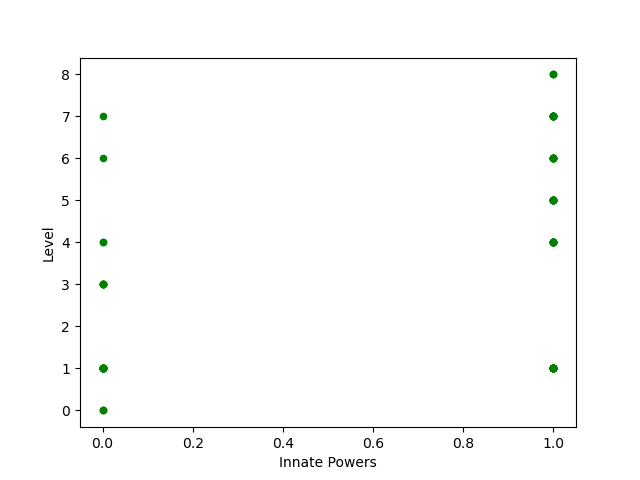
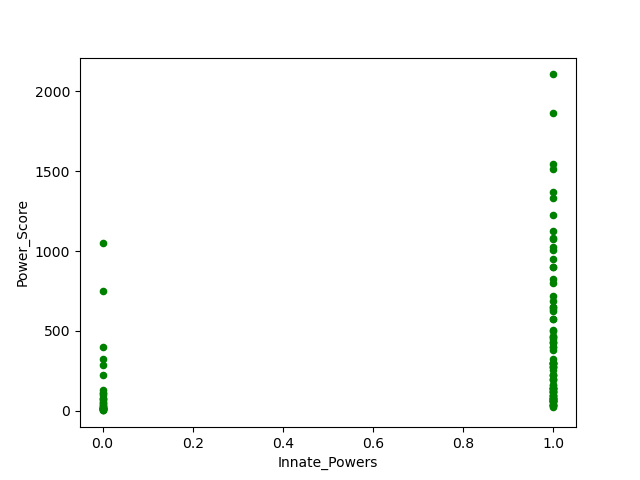
adjusted power score and plotting.

diff --git a/character_analysis.py b/character_analysis.py
@@ -1,3 +1,4 @@
+import csv
 import matplotlib.pyplot as plt
 import numpy as np
 import pandas as pd
@@ -54,7 +55,7 @@ def power_scores(comic_df):
         item_score = (j.Use_of_Enhanced_Tech * 2) + (j.Magical_or_Powerful_Weapons_Items * 3)
         advanced_score = j.Telekinesis_Telepathy + j.Ability_to_Alter_Matter_or_Energy**2 + \
                          j.Ability_to_Alter_Space_Time_Reality**3
-        j.Power_Score = (j.Level + 1) * (base_score + combat_score + item_score + advanced_score)
+        j.Power_Score = (j.Level + 1)**2 * (base_score + combat_score + item_score + advanced_score)
         powerscore_list.append(j.Power_Score)
     comic_df.Power_Score = powerscore_list
 
@@ -63,35 +64,31 @@ def power_scores(comic_df):
 
 # ***compare features and determine relationships***
 def make_plots(comic_df):
-    comic_df.plot(kind='scatter', x='Gender', y='Level', color='purple')
+    comic_df.plot(kind='scatter', x='Gender', y='Power_Score', color='purple')
     plt.savefig('plots\\gender_to_Power.png')
 
-    comic_df.plot(kind='scatter', x='Gender', y='Ability to Alter Space/Time/Reality', color='purple')
-    plt.savefig('plots\\gender_to_SRT.png')
-
-    comic_df.plot(kind='scatter', x='Property', y='Level', color='purple')
-    plt.savefig('plots\\property_to_Power.png')
-
-    comic_df.plot(kind='scatter', x='Side', y='Level', color='purple')
+    comic_df.plot(kind='scatter', x='Side', y='Power_Score', color='purple')
     plt.savefig('plots\\side_to_Power.png')
 
-    comic_df.plot(kind='scatter', x='Status', y='Level', color='blue')
+    comic_df.plot(kind='scatter', x='Status', y='Power_Score', color='blue')
     plt.savefig('plots\\Status_to_Power.png')
 
-    comic_df.plot(kind='scatter', x='Ability to Alter Space/Time/Reality', y='Level', color='blue')
+    comic_df.plot(kind='scatter', x='Level', y='Power_Score', color='blue')
     plt.savefig('plots\\STR_to_Power.png')
 
-    comic_df.plot(kind='scatter', x='Magic/Mystic Powers', y='Level', color='green')
+    comic_df.plot(kind='scatter', x='Magic_Or_Mystic_Powers', y='Power_Score', color='green')
     plt.savefig('plots\\Magic_to_Power.png')
 
-    comic_df.plot(kind='scatter', x='Innate Powers', y='Level', color='green')
+    comic_df.plot(kind='scatter', x='Innate_Powers', y='Power_Score', color='green')
     plt.savefig('plots\\Innate_to_Power.png')
 
 
 # ***create the clustering model***
-def make_clusters(comic_df):
+def create_clusters(comic_df):
+    comic_df.to_csv('Datasets\\Updated_Comic_Dataset.csv')
+
     # find the ideal K
-    X = comic_df
+    X = comic_df[5:]
     distortions = []
 
     for i in range(1, 11):
@@ -103,17 +100,25 @@ def make_clusters(comic_df):
     plt.xlabel('Number of clusters')
     plt.ylabel('Distortion')
     plt.savefig('plots\\ideal_k.png')
+    plt.show()
+    # the result of this plot shows that three is perhaps the ideal number of clusters for this set
 
-    # the result of this plot shows that four is perhaps the ideal number of clusters for this set
-    final_k = KMeans(n_clusters=4, init='random', n_init=10, max_iter=300, tol=1e-04, random_state=0)
-    y_km = final_k.fit_predict(X)
-    X = X.to_numpy()
+    return X
+
+
+def create_final_model(X_train):
+    final_k = KMeans(n_clusters=3, init='random', n_init=10, max_iter=300, tol=1e-04, random_state=0)
+    pred_y = final_k.fit_predict(X_train)
+    X_train = X_train.to_numpy()
 
     # plot the clusters
-    plt.scatter(X[y_km == 0, 0], X[y_km == 0, 1], s=50, c='green', marker='o', edgecolor='black', label='cluster 1')
-    plt.scatter(X[y_km == 1, 0], X[y_km == 1, 1], s=50, c='blue', marker='o', edgecolor='black', label='cluster 2')
-    plt.scatter(X[y_km == 2, 0], X[y_km == 2, 1], s=50, c='purple', marker='o', edgecolor='black', label='cluster 3')
-    plt.scatter(X[y_km == 3, 0], X[y_km == 3, 1], s=50, c='red', marker='o', edgecolor='black', label='cluster 4')
+    '''plt.scatter(X_train[:, 0], X_train[:, 1])
+    plt.scatter(final_k.cluster_centers_[:, 0], final_k.cluster_centers_[:, 1], s=150, c='red')
+    plt.show()'''
+
+    plt.scatter(X_train[pred_y == 0, 0], X_train[pred_y == 0, 1], s=50, c='green', marker='o', edgecolor='black', label='cluster 1')
+    plt.scatter(X_train[pred_y == 1, 0], X_train[pred_y == 1, 1], s=50, c='blue', marker='o', edgecolor='black', label='cluster 2')
+    plt.scatter(X_train[pred_y == 2, 0], X_train[pred_y == 2, 1], s=50, c='purple', marker='o', edgecolor='black', label='cluster 3')
 
     # plot the centroids
     plt.scatter(final_k.cluster_centers_[:, 0], final_k.cluster_centers_[:, 1], s=250, marker='*', c='black',
@@ -126,8 +131,9 @@ def make_clusters(comic_df):
 
 cleaned_comic_df = prepare_data(comic_dataframe)
 scored_cleaned_comic_df = power_scores(cleaned_comic_df)
-# make_plots(cleaned_comic_df)
-make_clusters(scored_cleaned_comic_df)
+# make_plots(scored_cleaned_comic_df)
+X = create_clusters(scored_cleaned_comic_df)
+create_final_model(X)
 
 print('Process finished.')
 
